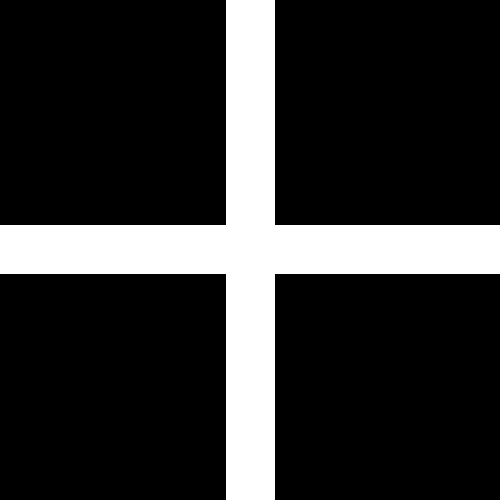
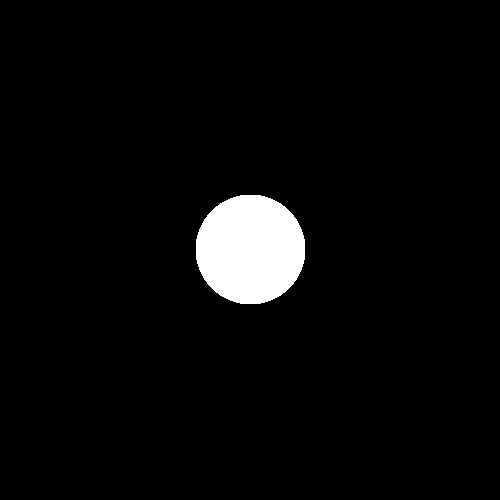
Ajout Disque

Changed region(s): [[0.45, 0.45, 1.0, 1.0], [0.0, 0.0, 0.6, 0.6]]

diff --git a/src/workshop.cpp b/src/workshop.cpp
@@ -1,5 +1,6 @@
 #include "workshop.hpp"
 
+
 void neGarderQueLeVert(sil::Image image) {
     for (int x{0}; x < image.width(); x++)
     {
@@ -143,7 +144,7 @@ void disque(int rayon) {
         {
             for (int y{0}; y < image.height(); y++)
             {
-                if ((x > ((image.width() - rayon)/2) && (x < image.width() - ((image.width() - rayon)/2))) || (y > ((image.height() - rayon)/2) && (y < image.height() - ((image.height() - rayon)/2))))
+                if (pow(x-250,2.0)+pow(y-250,2.0)< pow(rayon,2.0))
                 {
                     image.pixel(x,y) = {1, 1, 1};
                 }

diff --git a/src/workshop.hpp b/src/workshop.hpp
@@ -2,6 +2,7 @@
 
 #include <sil/sil.hpp>
 #include "random.hpp"
+#include<math.h>
 
 
 void neGarderQueLeVert(sil::Image image);
@@ -114,4 +115,4 @@ Mais qui peut flex d'avoir une marinière     /
                                             /_/\_
 */
 
-void symetrie();
+void symetrie(sil::Image image);

diff --git a/src/main.cpp b/src/main.cpp
@@ -4,7 +4,7 @@ int main()
 {
     sil::Image image{"images/logo.png"};
 
-    splitRGB(image);
+    disque(55);
 
     return 0;
 }
